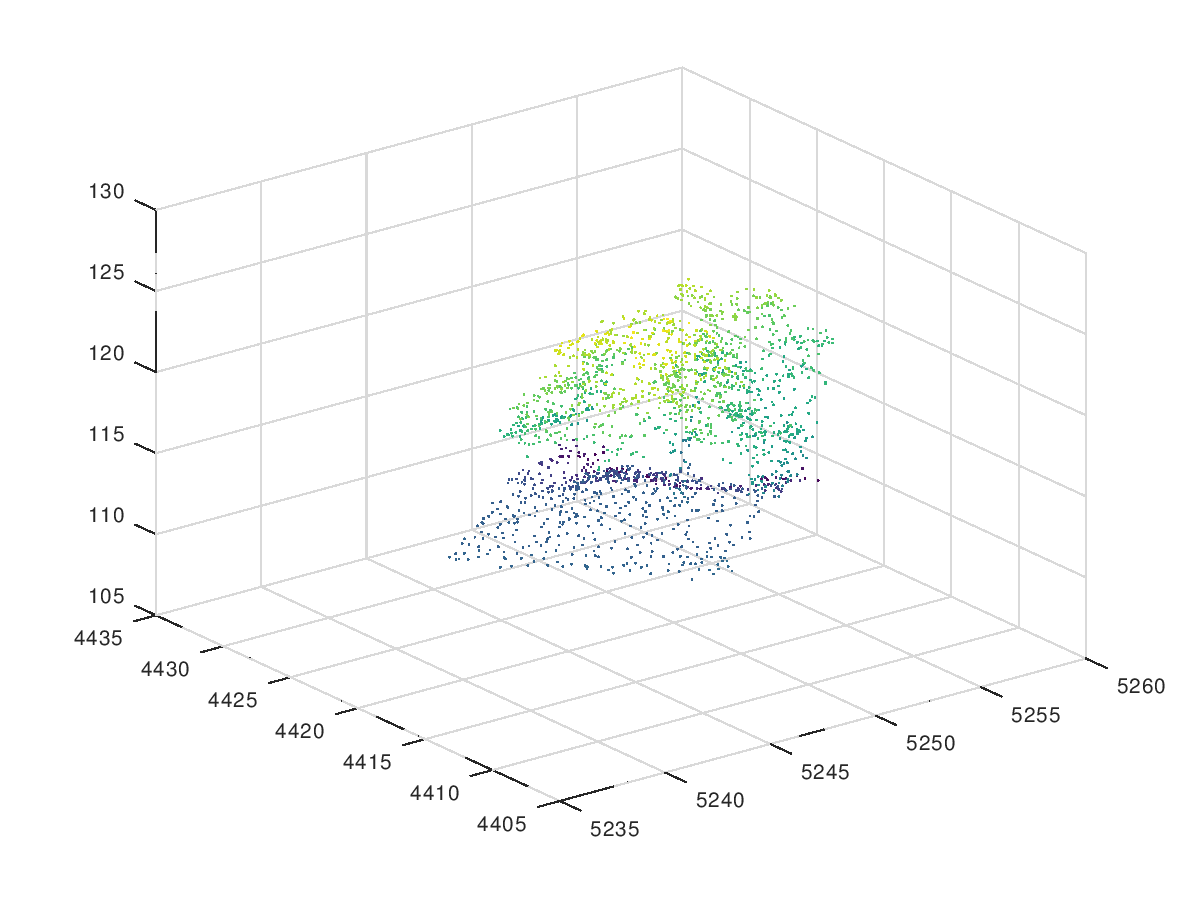
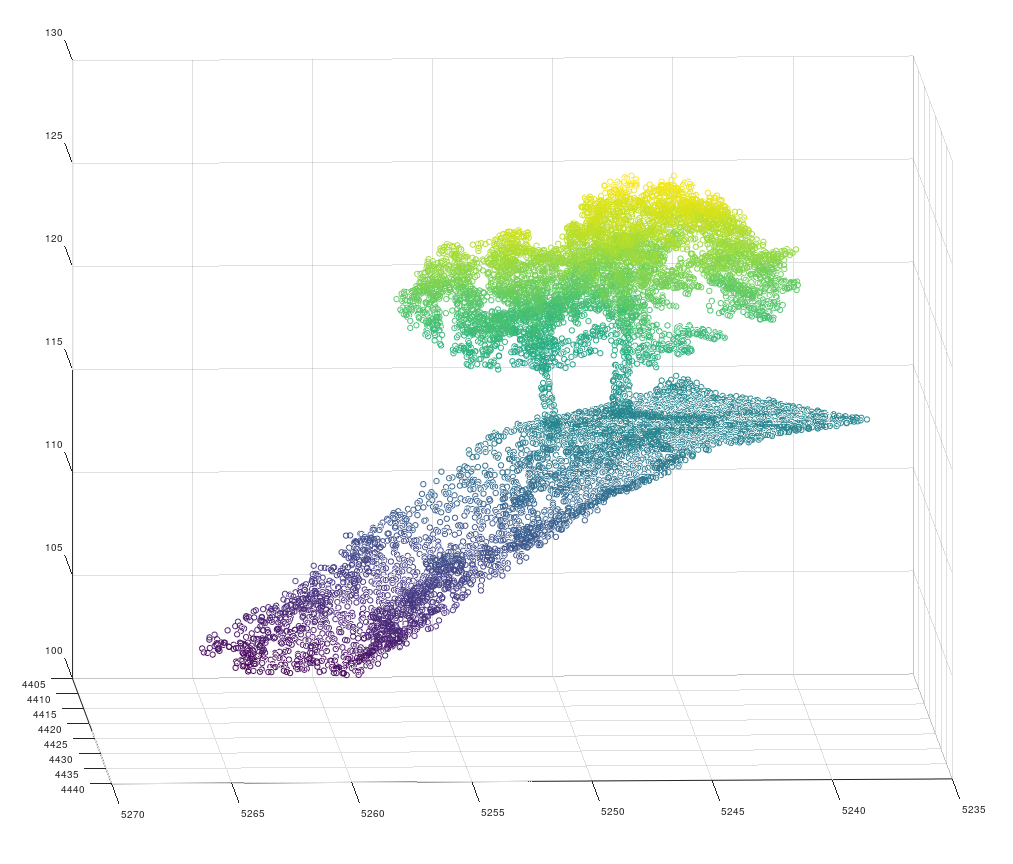
Neue Version der Aufgabe

diff --git a/I3DCV_Exercise_3/A1_exercises.m b/I3DCV_Exercise_3/A1_exercises.m
@@ -1,13 +1,23 @@
 function A1_exercises
   
+  clear variables;
+  clear all;
+  
   % Exercise 1 (i)
   data_sandhausen = load("sandhausen_sample.xyz","ascii");
+  
+  % If the size is too big, the performance of the script drops into oblivion  
+  % (buffer overflow propably, but googling didn't help), also setting the color 
+  % within scatter3 destroys a quick run through. Also having scatter draw too 
+  % many points may cause Octave too crash consistently
+  data_sandhausen = data_sandhausen(1:10:length(data_sandhausen),:);
+  
   data_x = data_sandhausen(:,1);
   data_y = data_sandhausen(:,2);
   data_z = data_sandhausen(:,3);
-
+  
   %from a quick peak into the data set:
-  resolution_xy = 0.1; 
+  resolution = 30; 
 
   % Keep the color range between 0 and 1
   highest_z = max(data_z);
@@ -15,9 +25,7 @@ function A1_exercises
   color_range = (data_z - lowest_z)/(highest_z - lowest_z);
 
   figure(1);
-  scatter3(data_x, data_y, data_z, resolution_xy, color_range);
-
-  % Exercise 1 (ii)
-  print("A1_result.png");
+  scatter3(data_x, data_y, data_z, resolution, color_range);
+  %scatter3(data_x, data_y, data_z);
  
 endfunction
